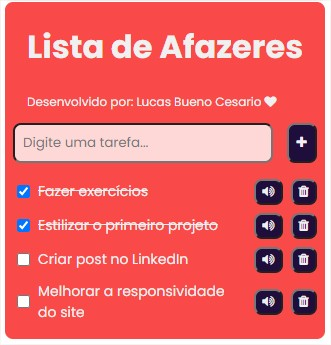
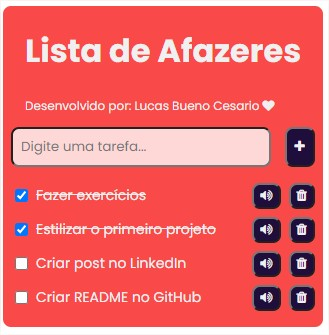
Used task class in CSS

diff --git a/js/script.js b/js/script.js
@@ -113,7 +113,6 @@ async function textToSpeech(event) {
   const audioConfig = {
     audioEncoding: "OGG_OPUS",
   };
-
   const rawResponse = await fetch(
     "https://texttospeech.googleapis.com/v1/text:synthesize?key=AIzaSyAyiSvc5W10cPhyRrgeoTPcQI0GFddUy9E",
     {
@@ -131,7 +130,6 @@ async function textToSpeech(event) {
     const content = await response.blob();
     return content;
   };
-  //fetch(`data:${type};base64,${base64}`).then((res) => res.blob());
 
   const contentBlob = await b64toBlob(content.audioContent, "audio/ogg");
   const audioURL = URL.createObjectURL(contentBlob);

diff --git a/css/styles.css b/css/styles.css
@@ -72,7 +72,7 @@ form > button {
   margin-right: 0.5rem;
 }
 
-#toDoList li span {
+.task {
   font-size: 14px;
   display: inline-block;
   margin-right: 1rem;
